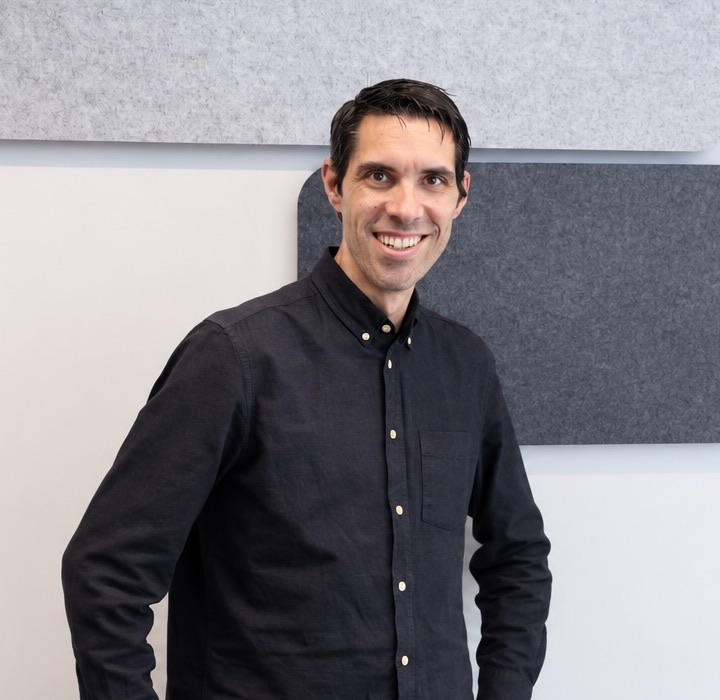
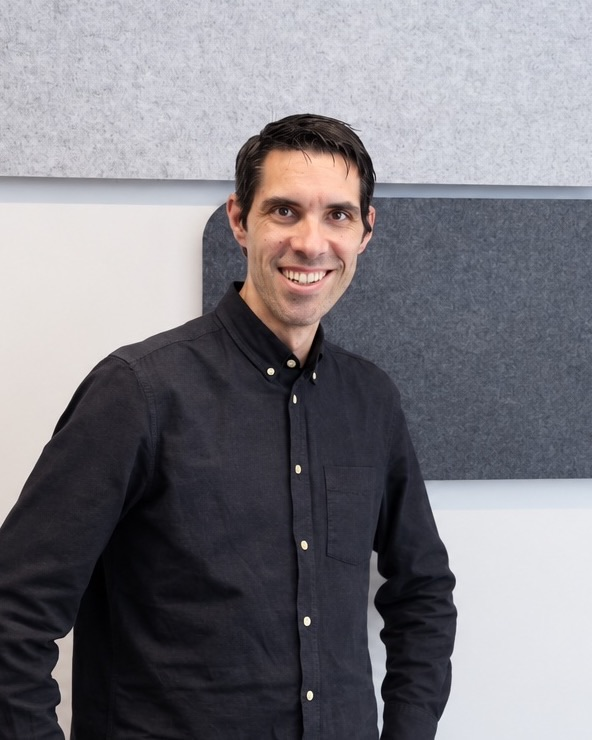
Sobre mí: retrato en vertical y texto más corto, para que foto y texto vayan a la misma altura

diff --git a/sobre-mi.html b/sobre-mi.html
@@ -101,18 +101,18 @@
     <!-- ========== HERO BIO ========== -->
     <section class="section" style="padding-top: calc(var(--header-height) + var(--space-16));">
       <div class="container">
-        <div style="display: grid; grid-template-columns: 300px 1fr; gap: var(--space-12); align-items: start;" class="bio-grid">
+        <div style="display: grid; grid-template-columns: 300px 1fr; gap: var(--space-12); align-items: center;" class="bio-grid">
           <div class="fade-in">
-            <img src="assets/img/alex-perdel-retrato.jpg" alt="Alex Perdel, Chief Growth &amp; Transformation Officer en Grupo Cuidacasa y autor de Hiperautomatizaciones" width="720" height="700" style="width: 100%; height: auto; border-radius: var(--radius-xl); box-shadow: var(--shadow-xl);" fetchpriority="high" decoding="async">
+            <img src="assets/img/alex-perdel-retrato.jpg" alt="Alex Perdel, Chief Growth &amp; Transformation Officer en Grupo Cuidacasa y autor de Hiperautomatizaciones" width="592" height="740" style="width: 100%; height: auto; border-radius: var(--radius-xl); box-shadow: var(--shadow-xl);" fetchpriority="high" decoding="async">
           </div>
           <div class="fade-in delay-1">
             <h1 style="font-size: var(--text-4xl); margin-bottom: var(--space-6);">Alex Perdel</h1>
             <p style="font-size: var(--text-xl); color: var(--color-primary); font-weight: 600; margin-bottom: var(--space-6);">CGTO - Chief Growth & Transformation Officer</p>
             <p style="font-size: var(--text-lg); color: var(--color-gray-600); line-height: 1.8;">
-              C-Level en Grupo Cuidacasa. Lidero Tecnología, Marketing/Growth y Automatización & IA desde el Comité de Dirección. Mi misión: impulsar el crecimiento sostenible y la transformación digital para incrementar ingresos, mejorar eficiencia operativa y experiencia de cliente.
+              C-Level en Grupo Cuidacasa: lidero Tecnología, Growth y Automatización e IA desde el Comité de Dirección para que la empresa crezca en ingresos, eficiencia y experiencia de cliente.
             </p>
             <p style="font-size: var(--text-lg); color: var(--color-gray-600); line-height: 1.8;">
-              Mi filosofía se basa en el <strong>esfuerzo, la constancia y la superación</strong>. Los errores enseñan, por eso me gusta probar, crecer y compartir lo aprendido. La mayoría de lo que sé viene de la autoformación y el trabajo duro, experiencias que curten más que cualquier máster.
+              Mi filosofía: <strong>esfuerzo, constancia y superación</strong>. Los errores enseñan, así que pruebo, aprendo y lo comparto. Casi todo lo que sé viene de la autoformación y del trabajo duro.
             </p>
             <div style="margin-top: var(--space-8);">
               <a href="https://www.linkedin.com/in/alexperdel/" target="_blank" rel="noopener" class="btn btn--primary">
